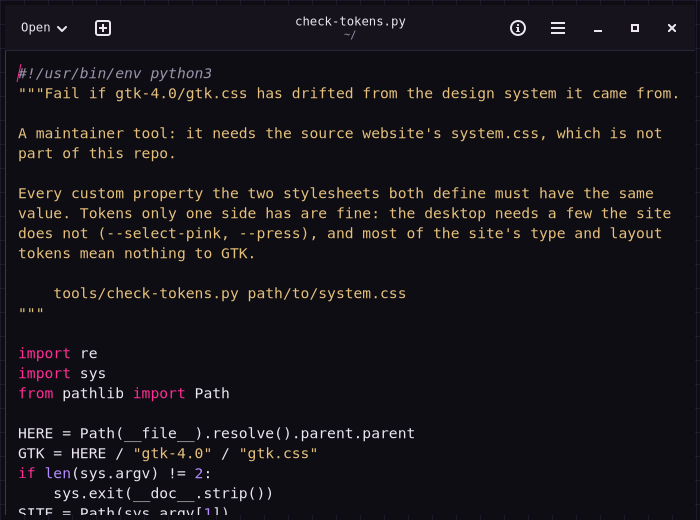
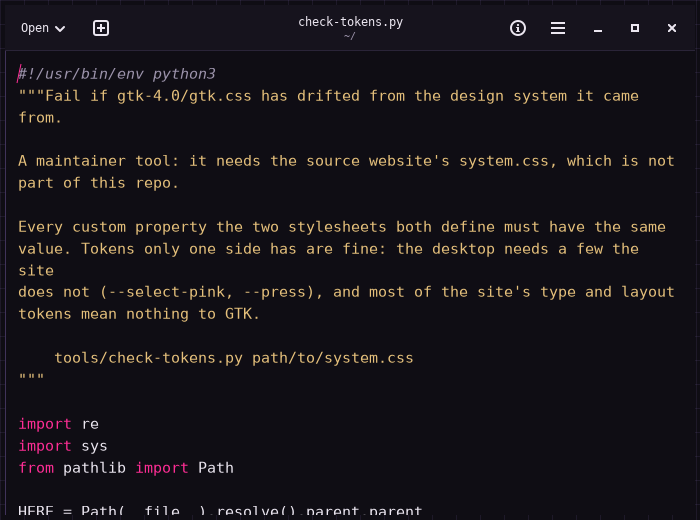
Move to shotbox 0.11.0, and reshoot GTK 4 and Text Editor
0.10.0 fails faint GTK 4 text it can't find where nothing there could
pass (#218) and keeps a seeded home's GSettings (#276); 0.11.0 fails a
check when a program doesn't answer the accessibility bus. The check
passes on the theme (37 not measured per GTK 4 run), and with dark
--muted or --ink set to #3a3446 every label drawn in it fails.

The reshoots follow this machine's newer GTK and Text Editor (shotbox
0.8.0 and 0.11.0 draw the same pictures); Text Editor's text is larger,
with taller lines.

diff --git a/tools/a11y-check.py b/tools/a11y-check.py
@@ -7,7 +7,7 @@ and GTK 4 in high contrast too.
 
     tools/a11y-check.py
 
-Needs shotbox 0.9.0 or later on PATH. tools/scheme-colors.py checks the same
+Needs shotbox 0.11.0 or later on PATH. tools/scheme-colors.py checks the same
 floors on the palette; this checks them on the pixels.
 """
 

diff --git a/CONTRIBUTING.md b/CONTRIBUTING.md
@@ -16,7 +16,7 @@ sampler in dark, light and high contrast and the GTK 3 one in dark and light,
 and fails for a control with no name, text or a control's edge under its
 floor as drawn, or a Tab stop whose focus doesn't show. CI runs it on Debian
 testing, since glyphs measured on the screen depend on the fonts and GTK. What it reports that isn't a problem is listed in the
-script, each with its reason. It needs shotbox 0.9.0 or later.
+script, each with its reason. It needs shotbox 0.11.0 or later.
 
 The installers have tests, which run them against scratch home folders:
 `tests/install.sh` for `install.sh` (`SH=dash` or another shell to run it
